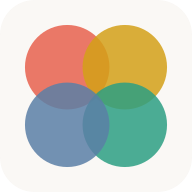
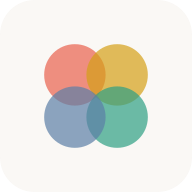
refactor(assets): unified overlapping circle motif across all assets
Regenerated all assets with chosen design direction:
- Overlapping circles (connection motif, opacity 0.7)
- Magazine OG layout (motif left, wordmark right)
- Consistent style across: favicon, logo component, welcome motif,
  PWA icons (192, 512), apple-touch-icon, OG image
- apple-touch-icon now matches PWA icon style (was mismatched)

diff --git a/src/routes/coach.tsx b/src/routes/coach.tsx
@@ -183,14 +183,14 @@ export function Coach() {
       <div class="route-shell">
         <div class="welcome-block">
           <svg class="welcome-motif" viewBox="0 0 120 120" width="120" height="120" aria-hidden="true">
-            <circle cx="42" cy="42" r="28" fill="var(--color-disc-d-subtle)" />
-            <circle cx="78" cy="42" r="28" fill="var(--color-disc-i-subtle)" />
-            <circle cx="78" cy="78" r="28" fill="var(--color-disc-s-subtle)" />
-            <circle cx="42" cy="78" r="28" fill="var(--color-disc-c-subtle)" />
-            <circle cx="42" cy="42" r="10" fill="var(--color-disc-d)" opacity="0.7" />
-            <circle cx="78" cy="42" r="8" fill="var(--color-disc-i)" opacity="0.7" />
-            <circle cx="78" cy="78" r="12" fill="var(--color-disc-s)" opacity="0.7" />
-            <circle cx="42" cy="78" r="9" fill="var(--color-disc-c)" opacity="0.7" />
+            <circle cx="46" cy="46" r="32" fill="var(--color-disc-d)" opacity="0.15" />
+            <circle cx="74" cy="46" r="32" fill="var(--color-disc-i)" opacity="0.15" />
+            <circle cx="74" cy="74" r="32" fill="var(--color-disc-s)" opacity="0.15" />
+            <circle cx="46" cy="74" r="32" fill="var(--color-disc-c)" opacity="0.15" />
+            <circle cx="46" cy="46" r="13" fill="var(--color-disc-d)" opacity="0.7" />
+            <circle cx="74" cy="46" r="10" fill="var(--color-disc-i)" opacity="0.7" />
+            <circle cx="74" cy="74" r="15" fill="var(--color-disc-s)" opacity="0.7" />
+            <circle cx="46" cy="74" r="11" fill="var(--color-disc-c)" opacity="0.7" />
           </svg>
           <h1>Before your next conversation</h1>
           <p class="welcome-text">

diff --git a/src/components/logo.tsx b/src/components/logo.tsx
@@ -15,10 +15,10 @@ export function Logo({ size = 32 }: LogoProps) {
       aria-hidden="true"
       class="logo"
     >
-      <circle cx="10" cy="10" r="7" fill="var(--color-disc-d)" opacity="0.85" />
-      <circle cx="22" cy="10" r="7" fill="var(--color-disc-i)" opacity="0.85" />
-      <circle cx="22" cy="22" r="7" fill="var(--color-disc-s)" opacity="0.85" />
-      <circle cx="10" cy="22" r="7" fill="var(--color-disc-c)" opacity="0.85" />
+      <circle cx="12" cy="12" r="8" fill="var(--color-disc-d)" opacity="0.7" />
+      <circle cx="20" cy="12" r="8" fill="var(--color-disc-i)" opacity="0.7" />
+      <circle cx="20" cy="20" r="8" fill="var(--color-disc-s)" opacity="0.7" />
+      <circle cx="12" cy="20" r="8" fill="var(--color-disc-c)" opacity="0.7" />
     </svg>
   );
 }
